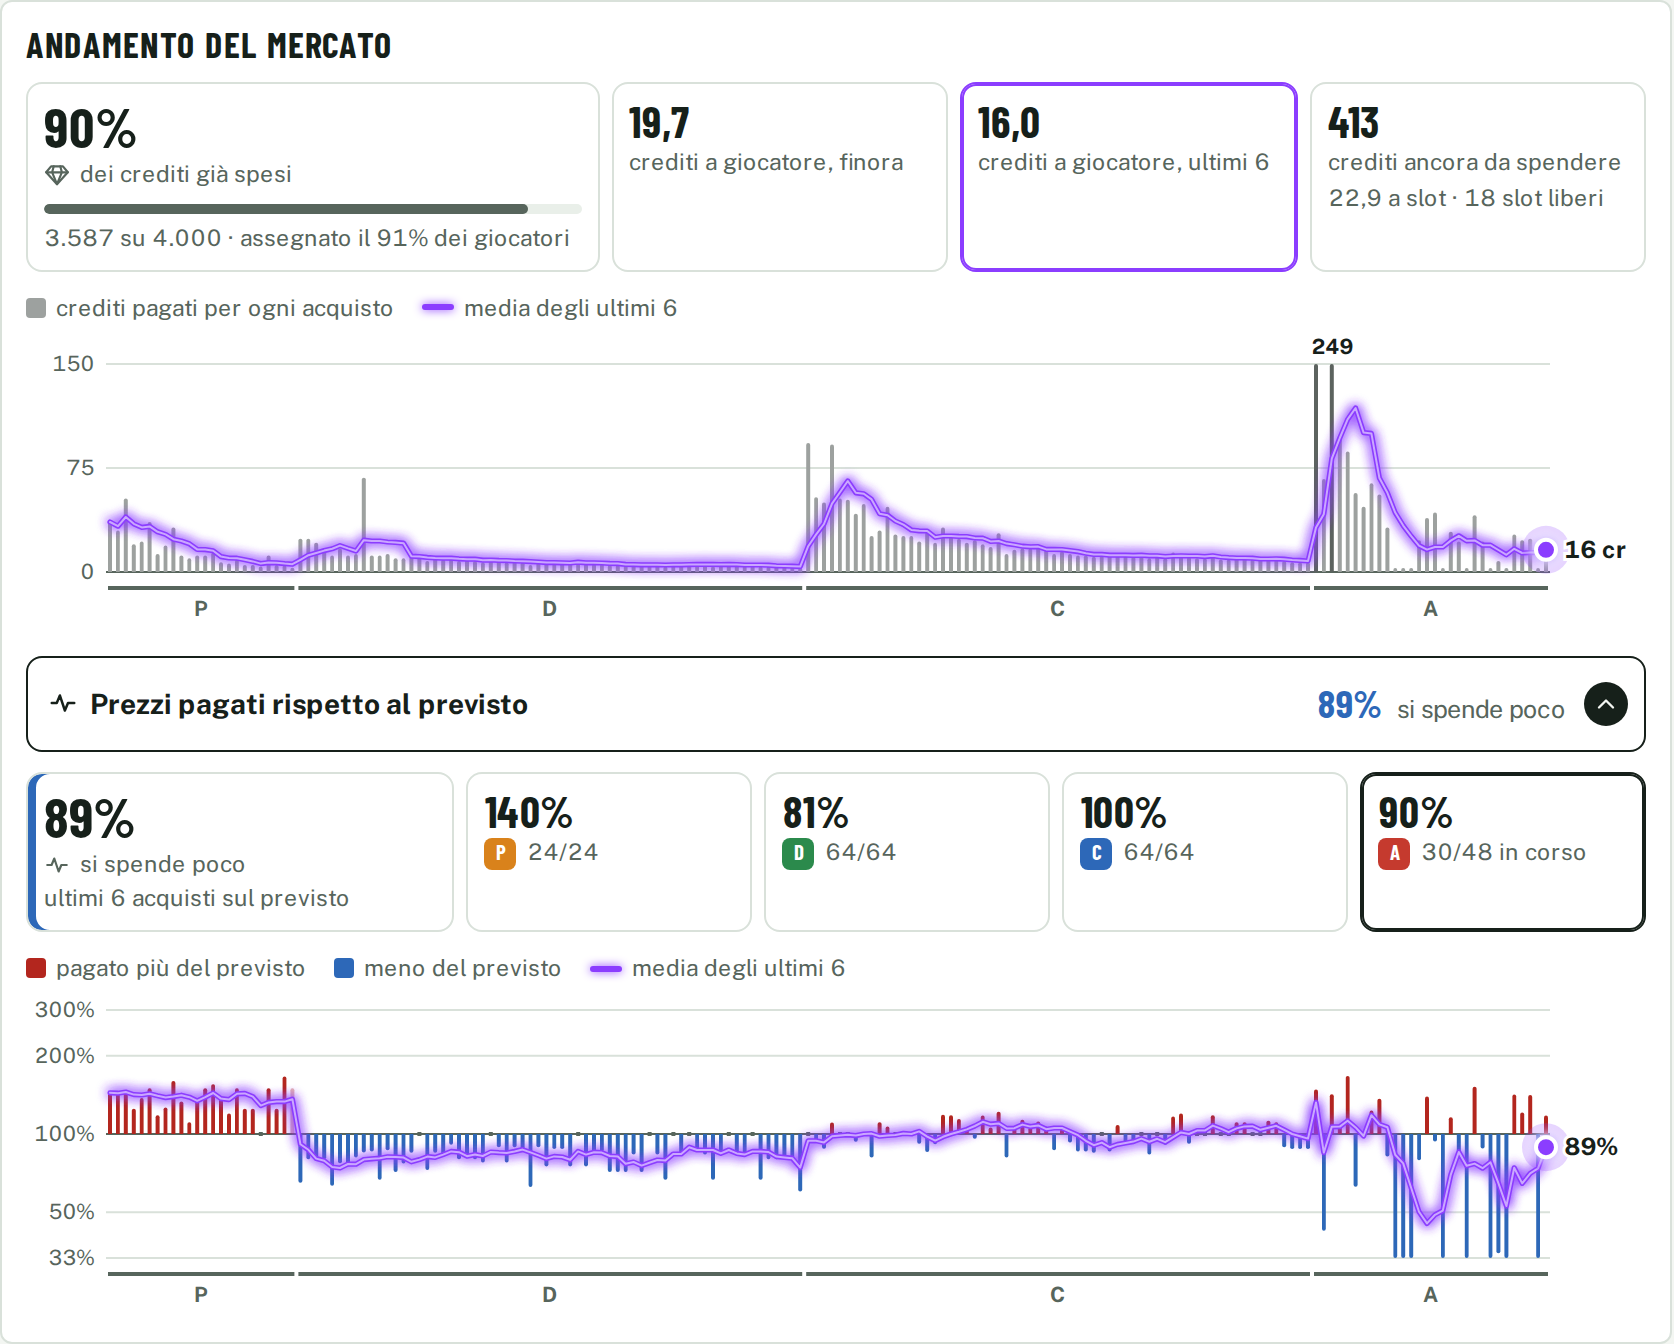
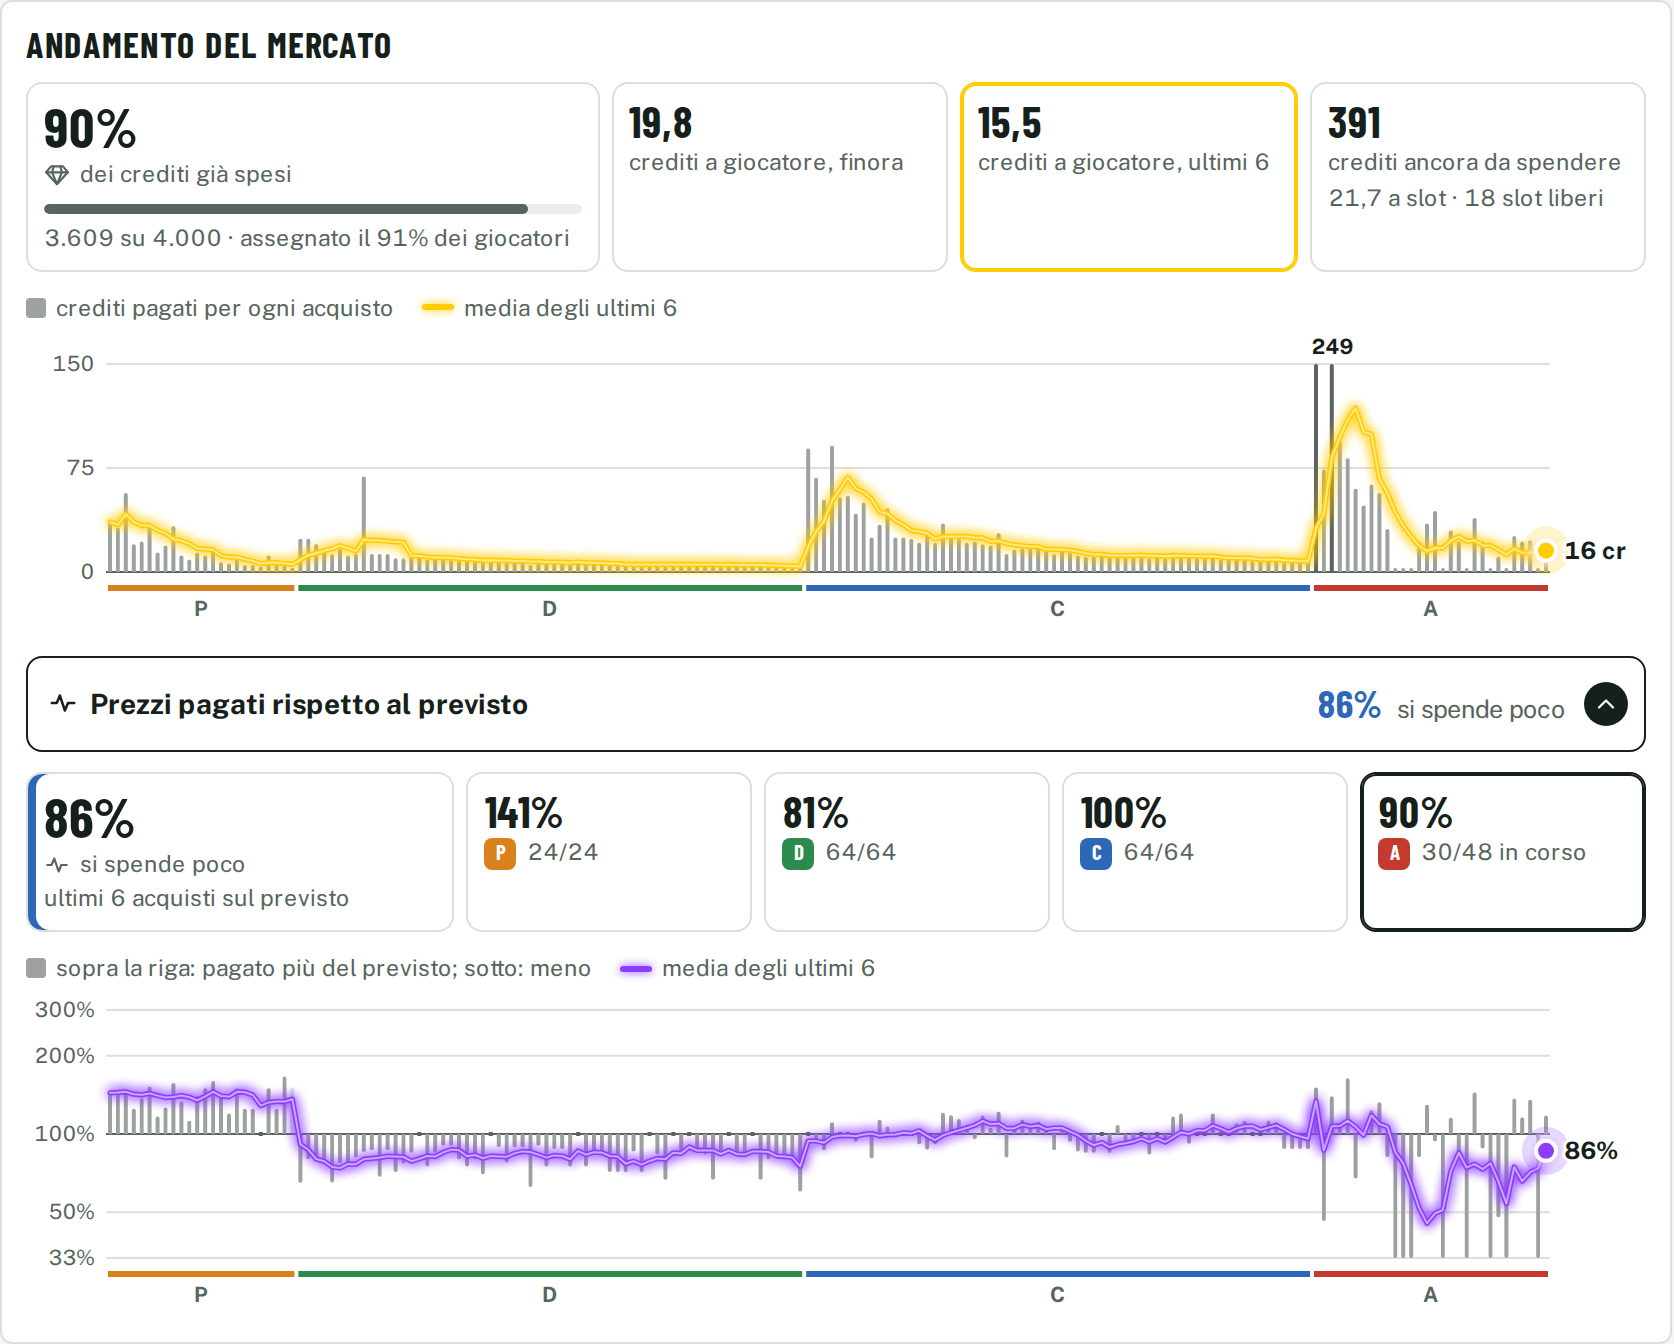
Mercato: media gialla sopra e viola sotto, colonne neutre, ruoli colorati
- La media dell'andamento generale è nel giallo dell'asta; quella dei prezzi
  rispetto al previsto resta viola. Il riquadro "ultimi 6" prende il colore
  della sua linea.
- Nel grafico rispetto al previsto le colonne non sono più rosse e blu: se si è
  pagato di più o di meno lo dice già la posizione, sopra o sotto la riga. Ora
  sono neutre come nel grafico generale, e la legenda lo dice in una riga.
- Sotto l'asse, in tutti e due i grafici, il tratto di ogni ruolo ha il colore
  del ruolo: arancione portieri, verde difensori, blu centrocampisti, rosso
  attaccanti.

README e specifiche aggiornati, immagini dell'asta e del mercato rifatte.

Claude-Session: https://claude.ai/code/session_01F7uTeUwJTeUrXJ6chWHkX9

diff --git a/web/tool.css b/web/tool.css
@@ -20,7 +20,7 @@
   --go: #1d7a4a; --warn: #a86a12; --bad: #b3261e;
   --r-p: #d9821b; --r-d: #2b8a4c; --r-c: #2d68b8; --r-a: #c53a2e;  /* colori di ruolo */
   --caldo: #b3261e; --freddo: #2d68b8;   /* grafico del mercato: sopra e sotto il prezzo previsto */
-  --merc: #8b3dff;                        /* e la sua media, viola acceso che brilla su rosso e blu */
+  --merc: #8b3dff;                        /* la media dei prezzi sul previsto: viola acceso (quella dei crediti e' il giallo dell'asta) */
   --font-display: "Barlow Condensed", "Arial Narrow", "Roboto Condensed", sans-serif;
   --font-body: "Public Sans", "Segoe UI", system-ui, -apple-system, sans-serif;
   --radius: 6px;
@@ -648,10 +648,14 @@ button.box, .comp { font: inherit; cursor: pointer; }
    Sopra l'andamento generale: i crediti usciti dal tavolo e una colonna per acquisto, alta quanto
    i crediti pagati, con la media degli ultimi. Sotto, in un pannello che si apre, il confronto con
    il previsto: un riquadro per il momento e uno per ruolo, e una colonna per acquisto dalla riga
-   del 100% (rossa sopra, pagato piu' del previsto; blu sotto). */
+   del 100% (sopra, pagato piu' del previsto; sotto, meno). Le colonne sono neutre in tutti e due:
+   il colore e' delle medie e dei tratti dei ruoli sotto l'asse. */
+/* la media: gialla (il giallo dell'asta) nell'andamento generale, viola nel confronto con il previsto */
+#mercato { --linea: var(--live); }
+#merc-previsto { --linea: var(--merc); }
 .boxes.merc-box.gen { grid-template-columns: minmax(150px, 1.7fr) repeat(3, minmax(84px, 1fr)); }
 .merc-box.gen .box.ora .barra { margin: 4px 0 5px; }
-.merc-box.gen .box.adesso { border-color: var(--merc); box-shadow: inset 0 0 0 1px var(--merc); }   /* e' il valore della linea */
+.merc-box.gen .box.adesso { border-color: var(--linea); box-shadow: inset 0 0 0 1px var(--linea); }   /* e' il valore della linea */
 .merc .pagato { fill: color-mix(in srgb, var(--ink) 42%, var(--sheet)); }
 .merc .pagato.oltre { fill: color-mix(in srgb, var(--ink) 70%, var(--sheet)); }
 .merc .t-oltre { font-size: 10.5px; font-weight: 700; text-anchor: middle; fill: var(--ink); }
@@ -678,21 +682,21 @@ button.box, .comp { font: inherit; cursor: pointer; }
 .merc-leg { display: flex; flex-wrap: wrap; gap: 4px 14px; margin: 10px 0 2px; font-size: 11.5px; color: var(--ink-2); }
 .merc-leg span { display: inline-flex; align-items: center; gap: 5px; white-space: nowrap; }
 .merc-leg .k { width: 10px; height: 10px; border-radius: 2px; }
-.merc-leg .k.caro { background: var(--caldo); } .merc-leg .k.sconto { background: var(--freddo); }
-.merc-leg .k.linea { width: 16px; height: 3px; border-radius: 2px; background: var(--merc); box-shadow: 0 0 5px var(--merc); }
+.merc-leg .k.linea { width: 16px; height: 3px; border-radius: 2px; background: var(--linea); box-shadow: 0 0 5px var(--linea); }
 .merc-graf { position: relative; }
 svg.merc { display: block; max-width: 100%; touch-action: pan-y; }
 .merc .griglia { stroke: var(--rule); stroke-width: 1; fill: none; }
 .merc .base { stroke: var(--ink-2); stroke-width: 1; fill: none; }
-.merc .caro { fill: var(--caldo); } .merc .sconto { fill: var(--freddo); }
 .merc .piccolo { opacity: 0.35; }
 .merc .pari { fill: var(--ink-2); }
-/* la media: viola con il bagliore (filtro #merc-glow) e un filo chiaro al centro che la fa brillare */
-.merc .media { stroke: var(--merc); stroke-width: 2.6; fill: none; stroke-linejoin: round; stroke-linecap: round; }
+/* la media, con il bagliore (filtro #merc-glow) e un filo chiaro al centro che la fa brillare */
+.merc .media { stroke: var(--linea); stroke-width: 2.6; fill: none; stroke-linejoin: round; stroke-linecap: round; }
 .merc .media-luce { stroke: #ffffff; stroke-opacity: 0.55; stroke-width: 1; fill: none; stroke-linejoin: round; stroke-linecap: round; }
-.merc .punto { fill: var(--merc); stroke: var(--sheet); stroke-width: 2; }
-.merc .alone { fill: var(--merc); opacity: 0.22; transform-box: fill-box; transform-origin: center; }
-.merc .fase { stroke: var(--ink-2); stroke-width: 2; fill: none; }
+.merc .punto { fill: var(--linea); stroke: var(--sheet); stroke-width: 2; }
+.merc .alone { fill: var(--linea); opacity: 0.22; transform-box: fill-box; transform-origin: center; }
+/* le fasi sotto l'asse: un tratto per ruolo, nel colore del ruolo */
+.merc .fase { stroke: var(--ink-2); stroke-width: 3; fill: none; }
+.merc .fase.P { stroke: var(--r-p); } .merc .fase.D { stroke: var(--r-d); } .merc .fase.C { stroke: var(--r-c); } .merc .fase.A { stroke: var(--r-a); }
 .merc .mirino { stroke: var(--ink); stroke-width: 1; fill: none; }
 .merc text { font-family: var(--font-body); fill: var(--ink-2); }
 .merc .t-asse { font-size: 10.5px; text-anchor: end; }

diff --git a/web/tool.js b/web/tool.js
@@ -1499,7 +1499,7 @@ function renderMercato() {
       sub: `${barra(spesi / totCr)}${intero(spesi)} su ${intero(totCr)} · assegnato il ${pct(ass / totSlot)} dei giocatori` }),
     box({ v: ass ? fmt(spesi / ass, 1) : "–", l: "crediti a giocatore, finora", title: "Quanto è costato in media ogni giocatore assegnato fin qui" }),
     box({ v: N ? fmt(acq[N - 1].c, 1) : "–", l: N ? `crediti a giocatore, ultimi ${Math.min(N, FINESTRA)}` : "crediti a giocatore, ultimi acquisti", cls: "adesso",
-      title: "È dove arriva la linea viola del grafico" }),
+      title: "È dove arriva la linea gialla del grafico" }),
     box({ v: intero(restano), l: `crediti ancora da spendere`, sub: liberi ? `${fmt(restano / liberi, 1)} a slot · ${liberi} slot liberi` : "rose complete" }),
   ];
   let h = `<h2>Andamento del mercato</h2><div class="boxes merc-box gen">${generale.join("")}</div>`;
@@ -1519,7 +1519,7 @@ function renderMercato() {
     for (let i = 0; i < N;) {
       let j = i; while (j + 1 < N && acq[j + 1].g.r === acq[i].g.r) j++;
       const x1 = sx + passoX * i + 1, x2 = sx + passoX * (j + 1) - 1;
-      f += `<path class="fase" d="M${x1.toFixed(1)} ${base + 8}H${x2.toFixed(1)}"/><text class="t-fase" x="${((x1 + x2) / 2).toFixed(1)}" y="${base + 22}">${acq[i].g.r}</text>`;
+      f += `<path class="fase ${acq[i].g.r}" d="M${x1.toFixed(1)} ${base + 8}H${x2.toFixed(1)}"/><text class="t-fase" x="${((x1 + x2) / 2).toFixed(1)}" y="${base + 22}">${acq[i].g.r}</text>`;
       i = j + 1;
     }
     return f;
@@ -1579,7 +1579,7 @@ function renderMercato() {
   const colonne = acq.map((a, i) => {
     const yv = y(a.r), piccolo = Math.max(a.p, a.e) <= 3;
     if (Math.abs(yv - y0) < 1.5) return `<rect class="pari" x="${(cx(i) - bw / 2).toFixed(1)}" y="${(y0 - 1).toFixed(1)}" width="${bw.toFixed(1)}" height="2"/>`;
-    return colonna(`${yv < y0 ? "caro" : "sconto"}${piccolo ? " piccolo" : ""}`, i, y0, yv);
+    return colonna(`pagato${piccolo ? " piccolo" : ""}`, i, y0, yv);
   }).join("");
   const linea = acq.map((a, i) => `${i ? "L" : "M"}${cx(i).toFixed(1)} ${y(a.m).toFixed(1)}`).join("");
   const fine = { x: cx(N - 1), y: y(ultimo) };
@@ -1588,7 +1588,7 @@ function renderMercato() {
       <span class="ma-t">${ico("polso")}Prezzi pagati rispetto al previsto</span><span class="ma-v ${tono}"><b>${pct(ultimo)}</b> ${parola}</span><span class="box-chev">${ico("giu")}</span></button>
     <div class="pannello${eraAperto ? " aperto" : ""}" id="merc-previsto"><div><div class="merc-in">
       <div class="boxes merc-box">${riquadri.join("")}</div>
-      <div class="merc-leg"><span><i class="k caro"></i>pagato più del previsto</span><span><i class="k sconto"></i>meno del previsto</span><span><i class="k linea"></i>media degli ultimi ${FINESTRA}</span></div>
+      <div class="merc-leg"><span><i class="k pagato"></i>sopra la riga: pagato più del previsto; sotto: meno</span><span><i class="k linea"></i>media degli ultimi ${FINESTRA}</span></div>
       <div class="merc-graf"><svg class="merc prev${inAsta() ? " in-asta" : ""}" width="${W}" height="${H}" viewBox="0 0 ${W} ${H}" role="img" tabindex="0"
           aria-label="Prezzi rispetto al previsto: ${N} acquisti, gli ultimi al ${pct(ultimo)} del prezzo previsto. Frecce sinistra e destra per scorrere gli acquisti.">
         ${tacche.map((t) => `<path class="${t === 1 ? "base" : "griglia"}" d="M${sx} ${y(t).toFixed(1)}H${W - dx}"/><text class="t-asse" x="${sx - 6}" y="${(y(t) + 3.5).toFixed(1)}">${Math.round(t * 100)}%</text>`).join("")}

diff --git a/web/index.html b/web/index.html
@@ -10,7 +10,7 @@
 <link rel="preconnect" href="https://fonts.gstatic.com" crossorigin>
 <link rel="stylesheet" href="https://fonts.googleapis.com/css2?family=Barlow+Condensed:wght@500;600;700&family=Public+Sans:wght@400;500;600;700&display=swap">
 <link rel="icon" type="image/png" href="logo.png">
-<link rel="stylesheet" href="tool.css?v=03cf423b98">
+<link rel="stylesheet" href="tool.css?v=8d21108128">
 <div class="app">
   <header class="top">
     <div class="marca">
@@ -115,7 +115,7 @@
 
 <div class="overlay" id="overlay" hidden></div>
 
-<script src="tool.js?v=a2847a9c88"></script>
+<script src="tool.js?v=a0c16ae5fa"></script>
 
 </body>
 </html>

diff --git a/README.md b/README.md
@@ -97,7 +97,7 @@ Premi il bottone col pallone in testata: il pallone rotola, ti viene incontro e 
 - **Giocatore chiamato**: scrivi il nome, scorri i risultati con le frecce e premi Invio. Hai la sua scheda in versione da asta, a riquadri come quella del listone. In giallo **fin dove spingerti**: il prezzo oltre il quale la rosa migliore senza di lui diventa più forte, e se basta a coprire il prezzo atteso (in rosso *Lascialo*, quando non conviene a nessun prezzo). Accanto punti, valore, prezzo atteso e la tua offerta massima; sotto come sta, quanto gioca e, per portieri e attaccanti, quante partite facili ha e quanto rende alternato a chi hai già in rosa.
 - **Chi lo prende**: un riquadro per squadra con la sua offerta massima, spento se ha il ruolo pieno. Tocchi chi l'ha preso, scrivi il prezzo e premi Aggiudicato (o Invio). Il tool aggiorna crediti e slot di tutti, ricalcola i suggerimenti e adegua i prezzi al mercato reale della serata.
 - **Chi chiama**: sopra la ricerca vedi il ruolo in corso e a chi tocca chiamare, e poi a chi. Dopo ogni acquisto il giro avanza da solo, saltando chi ha già riempito il ruolo; con le frecce lo correggi, con un tocco inverti il verso.
-- **Andamento del mercato**, sotto il giocatore chiamato per tutta la larghezza. In alto l'**andamento generale**: quanta parte dei crediti è già uscita dal tavolo (e per quanta parte dei giocatori), quanto è costato in media un giocatore finora e negli ultimi sei acquisti, quanti crediti restano per ogni slot libero. Il grafico ha una colonna per acquisto, alta quanto i crediti pagati, e la media degli ultimi sei in viola acceso, con il pallino in fondo che pulsa mentre l'asta è live: vedi a colpo d'occhio quando il tavolo spende tanto e quando poco. Sotto, in un pannello che apri con un tocco, i **prezzi pagati rispetto al previsto**: rosso se si è pagato di più, blu se di meno, ruolo per ruolo.
+- **Andamento del mercato**, sotto il giocatore chiamato per tutta la larghezza. In alto l'**andamento generale**: quanta parte dei crediti è già uscita dal tavolo (e per quanta parte dei giocatori), quanto è costato in media un giocatore finora e negli ultimi sei acquisti, quanti crediti restano per ogni slot libero. Il grafico ha una colonna per acquisto, alta quanto i crediti pagati, e la media degli ultimi sei in giallo, con il pallino in fondo che pulsa mentre l'asta è live: vedi a colpo d'occhio quando il tavolo spende tanto e quando poco. Sotto, in un pannello che apri con un tocco, i **prezzi pagati rispetto al previsto**: una colonna sopra la riga se si è pagato di più, sotto se di meno, con la media in viola. In tutti e due i grafici le colonne sono neutre e sotto l'asse c'è un tratto per ruolo, nel colore del ruolo.
 - **Prezzi che seguono il tavolo**: se nel ruolo in corso si paga più del previsto, i prezzi attesi di chi resta in quel ruolo salgono; e siccome quei crediti poi mancano, scendono quelli dei ruoli dopo. All'ultimo ruolo si spende quello che resta.
 - **Squadre**, in alto a destra: crediti, offerta massima, slot liberi e **budget di ruolo** di ognuno: quanto può mettere su un giocatore del ruolo in corso senza intaccare i crediti che gli servono per i ruoli dopo.
 - **Occasioni di fine ruolo**: per il ruolo in corso, quanti giocatori buoni restano liberi (in *Fascia alta* o più su per SOS Fanta, oppure da titolare per i nostri punti), quanti posti da titolare ci sono ancora da riempire e quanti liberi restano fascia per fascia. Se i buoni avanzano conviene aspettare, se mancano no. Sotto, **dalla fascia più alta**, i giocatori che puoi portare via a poco, con il prezzo realistico e il perché. Un giocatore lo vuole chi cerca ancora un titolare e chi, pur avendo i suoi, ci guadagnerebbe una fascia: è un'occasione quando loro hanno finito il budget, o quando non lo vuole più nessuno da titolare. Nell'ultimo ruolo, dove ognuno spende quello che gli resta, il tool conta gli slot dei rivali che hanno ancora crediti e ti dice chi resta a poco dopo che hanno comprato.

diff --git a/specifiche.md b/specifiche.md
@@ -174,19 +174,21 @@ dettaglio:
   slot libero. Il grafico ha una colonna per acquisto alta quanto i crediti
   pagati (scala lineare da zero, un solo colore; la cima segue i prezzi tipici e
   i colpi fuori scala portano il prezzo scritto sopra), la linea della media degli
-  ultimi sei (viola, con un bagliore che la stacca dalle colonne, e un pallino in
-  fondo che pulsa durante l'asta) e, sotto l'asse, le fasi per ruolo.
+  ultimi sei (gialla, il giallo dell'asta, con un bagliore che la stacca dalle
+  colonne e un pallino in fondo che pulsa durante l'asta) e, sotto l'asse, le
+  fasi per ruolo: un tratto per ruolo, nel colore del ruolo.
   Sotto, un pannello chiuso che si apre con un tocco (e resta com'è dopo ogni
   acquisto): i *prezzi pagati rispetto al previsto*. I prezzi attesi seguono già
   il tavolo da soli, quindi questo è il dettaglio per chi vuole vederlo: un
   riquadro per il momento (la media degli ultimi sei acquisti sul previsto: sopra
   il 110% si spende tanto, sotto il 90% poco) e uno per ruolo con il suo
-  termometro; una colonna per acquisto dalla riga del 100% (rossa sopra, pagato
-  più del previsto; blu sotto) e la media mobile pesata sui crediti. Il previsto
-  è il prezzo atteso prima dell'asta; la scala è logaritmica (metà e doppio alla
-  stessa distanza dalla riga); rosso e blu restano distinguibili anche per chi
-  non distingue rosso e verde. In entrambi i grafici, passando il mouse, toccando
-  o con le frecce si legge ogni acquisto.
+  termometro; una colonna per acquisto dalla riga del 100% (sopra, pagato più del
+  previsto; sotto, meno: la posizione basta, le colonne sono neutre come nel
+  grafico generale) e la media mobile pesata sui crediti, in viola. Il previsto è
+  il prezzo atteso prima dell'asta; la scala è logaritmica (metà e doppio alla
+  stessa distanza dalla riga). Sotto l'asse, gli stessi tratti colorati per
+  ruolo. In entrambi i grafici, passando il mouse, toccando o con le frecce si
+  legge ogni acquisto.
 - **Squadre**, in alto a destra: crediti, offerta massima, budget di ruolo e slot liberi per ruolo di
   ognuna, con la rosa apribile e l'etichetta su chi deve chiamare.
 - **Occasioni di fine ruolo**, a destra sotto le squadre. Nell'asta per ruolo
